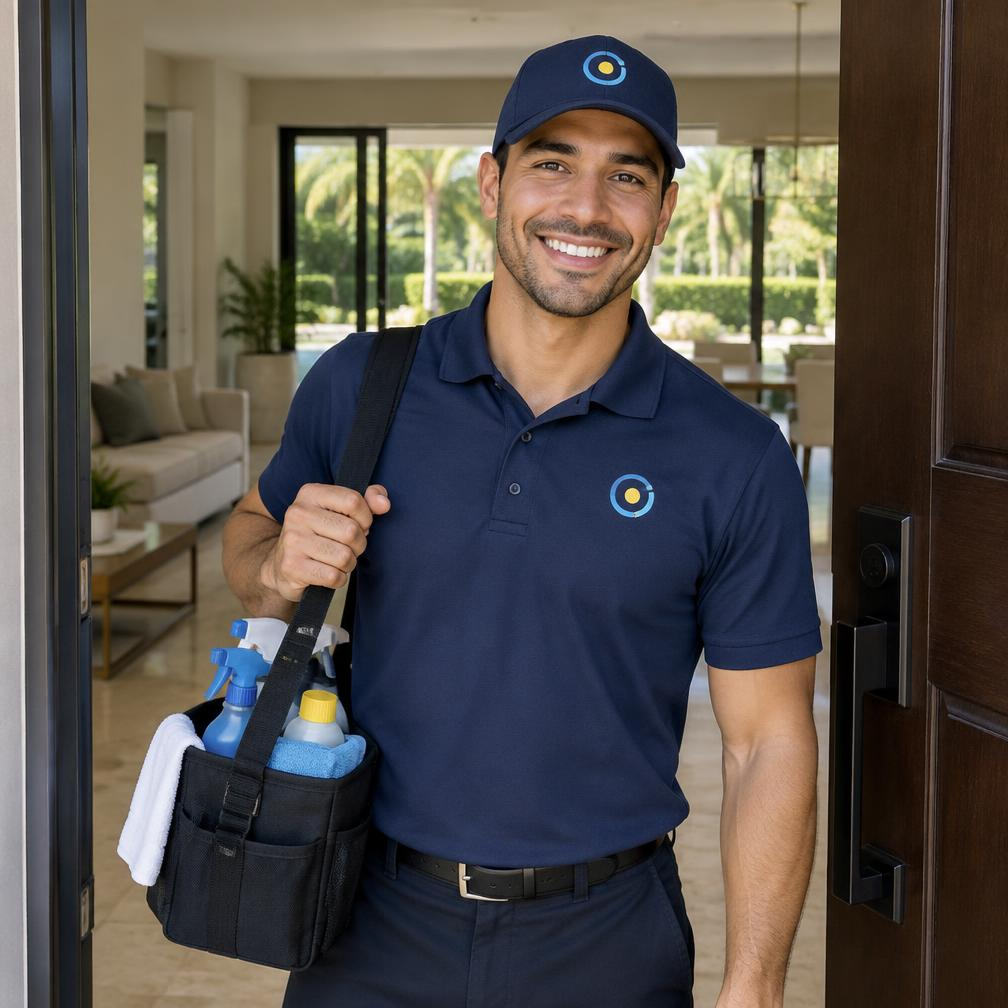
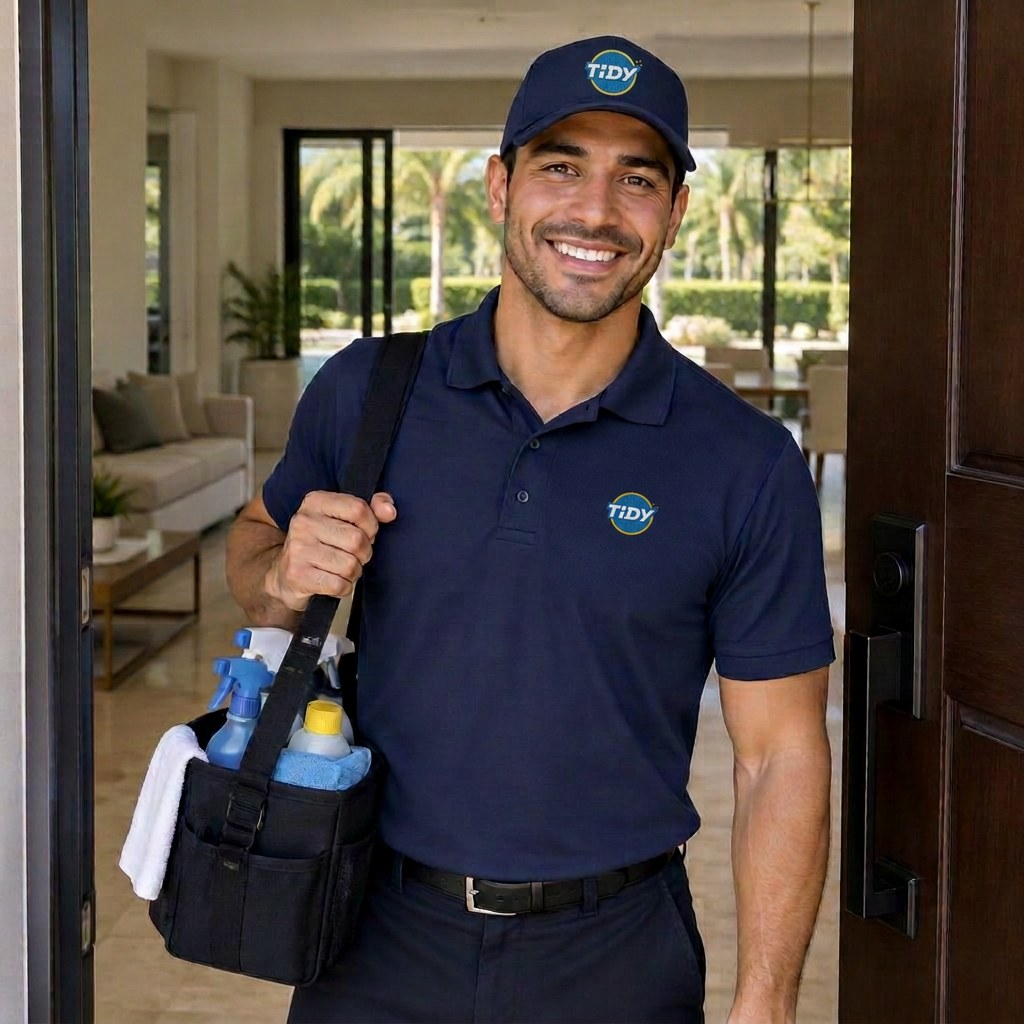
Changes

diff --git a/src/pages/Founding.tsx b/src/pages/Founding.tsx
@@ -22,7 +22,7 @@ import lawnImage from "@/assets/lawn-care.webp";
 import carImage from "@/assets/car-detailing.webp";
 import scanImage from "@/assets/cleaning-interior.webp";
 import calendarImage from "@/assets/lawn-care.webp";
-import proImage from "@/assets/car-detailing.webp";
+import proImage from "@/assets/founding-pro-step.jpg";
 
 type Svc = "cleaning" | "lawn" | "detailing";
 type Step = "zip" | "services" | "sizes" | "price" | "reserve" | "done";
